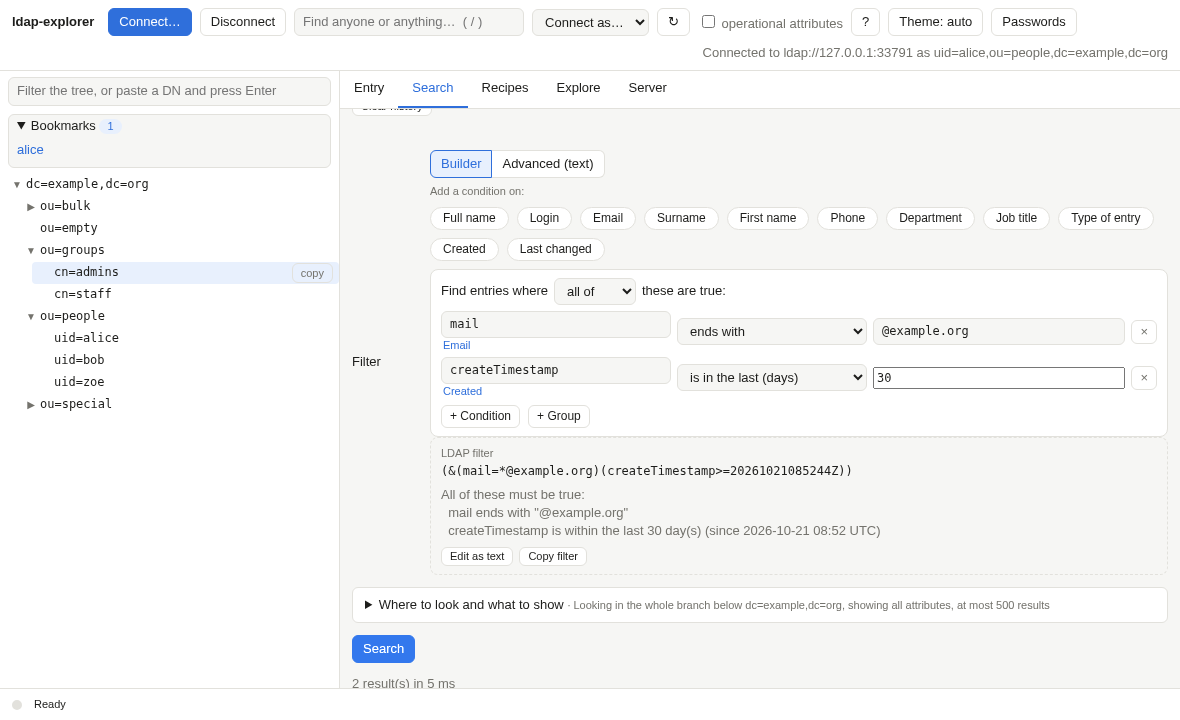
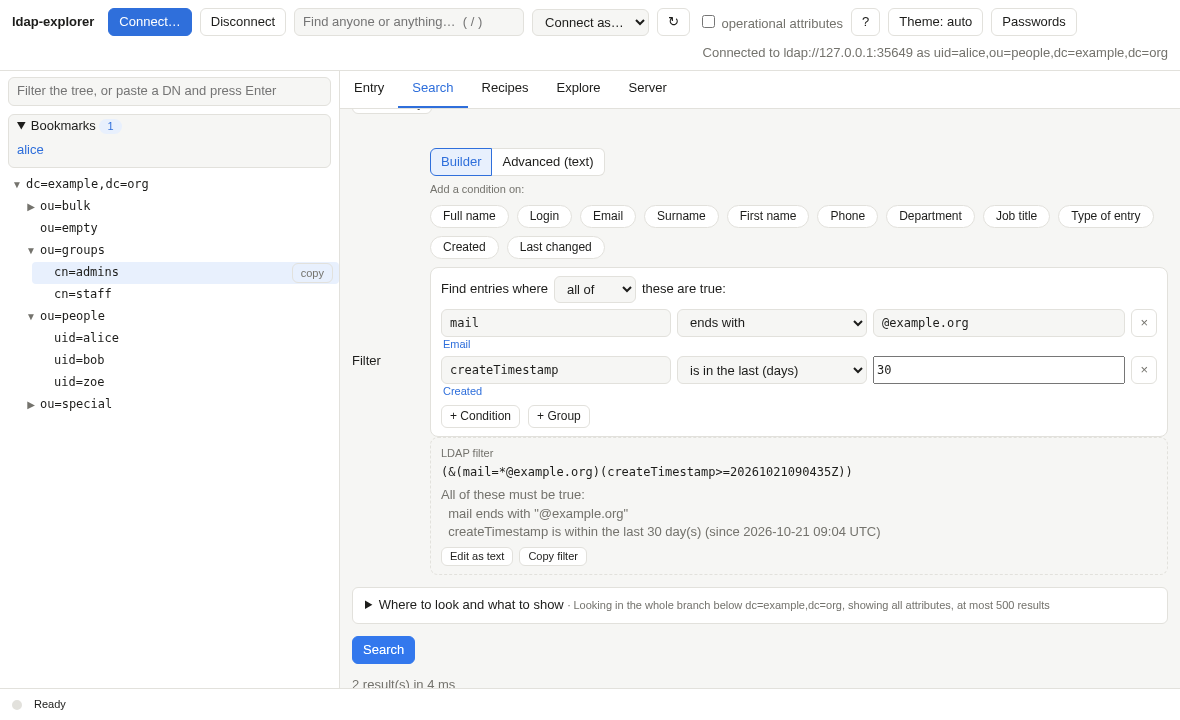
Builder: aligned fields (#2); options by field type when the schema publishes no matching rules, as in Active Directory (#3)
Refs #2, #3

diff --git a/front/js/builder.js b/front/js/builder.js
@@ -9,7 +9,7 @@ import { emit, on } from "./events.js";
 import { getSchema, attrInfo } from "./schema.js";
 import { copyText } from "./ui/copy.js";
 import { friendlyLabel, commonChips, chipDefaults } from "./labels.js";
-import { OPS, opsFor, defaultOp, valueKind, newCondition, newGroup, toQuery, fromQuery, friendlyOps, isEmptyQuery } from "./builder-model.js";
+import { RULES_UNKNOWN_NOTE, OPS, opsFor, defaultOp, valueKind, newCondition, newGroup, toQuery, fromQuery, friendlyOps, isEmptyQuery } from "./builder-model.js";
 
 let model = newGroup("all");
 let schemaIdx = null;
@@ -103,7 +103,10 @@ function renderCondition(it, group) {
   const remove = el("button", { class: "bremove", type: "button", title: "Remove this condition", textContent: "×",
     onclick: () => { group.items.splice(group.items.indexOf(it), 1); if (group.items.length === 0) group.items.push(newCondition()); render(); } });
 
-  return el("div", { class: "bcond" }, el("div", { class: "battr-wrap" }, attr, caption), op, valueControl(it, vk), remove);
+  const guess = info && info.rulesUnknown
+    ? el("span", { class: "guess", textContent: "ⓘ", title: RULES_UNKNOWN_NOTE, role: "img", "aria-label": RULES_UNKNOWN_NOTE })
+    : null;
+  return el("div", { class: "bcond" }, el("div", { class: "battr-wrap" }, attr, caption), op, guess, valueControl(it, vk), remove);
 }
 
 function valueControl(it, vk) {

diff --git a/front/js/server.js b/front/js/server.js
@@ -1,6 +1,7 @@
 // The Server tab: what this server is, and a browser for its schema (every attribute and
 // object class it accepts, how they relate, and a way to search for entries that use them).
 
+import { RULES_UNKNOWN_NOTE } from "./builder-model.js";
 import { $, el } from "./dom.js";
 import { api } from "./api.js";
 import { emit, on } from "./events.js";
@@ -139,6 +140,7 @@ function attrDetail(a) {
       el("div", {}, "equality: ", ruleText(a.equality, "not supported")),
       el("div", {}, "ordering (before/after): ", ruleText(a.ordering, "not supported")),
       el("div", {}, "contains / starts with: ", ruleText(a.substring, "not supported")))),
+    ...(a.rulesUnknown ? [el("p", { class: "muted small rules-note", textContent: RULES_UNKNOWN_NOTE })] : []),
     row("Used by", ...(used.length
       ? used.slice(0, 40).map((u) => el("span", { class: "usedby" }, link(u.class, "classes"), u.required ? el("span", { class: "badge", textContent: "required" }) : null, " "))
       : ["no object class lists it"]),

diff --git a/front/css/components.css b/front/css/components.css
@@ -78,7 +78,11 @@ table.rtable td.dn-cell { overflow-wrap: anywhere; min-width: 280px; }
 .bgroup .bgroup { margin: 6px 0 6px 14px; background: var(--bg); }
 .bhead { display: flex; align-items: center; gap: 6px; margin-bottom: 6px; }
 .bhead .bremove { margin-left: auto; }
-.bcond { display: flex; flex-wrap: wrap; gap: 6px; align-items: center; margin: 4px 0; }
+.bcond { display: flex; flex-wrap: wrap; gap: 6px; align-items: flex-start; margin: 4px 0; }
+/* every control of a condition has the same height and sits on the same line; the friendly name
+   under the field hangs below without pushing the others (they used to be centred on it) */
+.bcond input, .bcond select, .bcond .bremove { height: 28px; box-sizing: border-box; }
+.bcond .guess { height: 28px; display: inline-flex; align-items: center; color: var(--muted); cursor: help; }
 .bop { flex: 0 1 190px; min-width: 0; }
 .bremove { flex: none; }
 .bremove { padding: 0 8px; line-height: 22px; color: var(--muted); }

diff --git a/front/test/builder-model.test.js b/front/test/builder-model.test.js
@@ -154,3 +154,12 @@ test("friendlyOps shows time comparisons as after/before", () => {
 test("newCondition starts empty", () => {
   assert.deepEqual(newCondition(), { type: "condition", attr: "", op: "contains", value: "" });
 });
+
+test("a field whose rules the server does not publish still gets the usual options for its kind", () => {
+  // what the API sends for an Active Directory text field: rules unknown, so guessed from the syntax
+  const guessed = { kind: "string", canEqual: true, canOrder: false, canSubstring: true, rulesUnknown: true };
+  assert.deepEqual(opsFor(guessed), ["equals", "notEquals", "contains", "startsWith", "endsWith", "wildcard", "present", "notPresent"]);
+  assert.equal(defaultOp(guessed), "contains");
+  // and a field that does declare only equality stays that way
+  assert.deepEqual(opsFor({ kind: "string", canEqual: true, canOrder: false, canSubstring: false }), ["equals", "notEquals", "present", "notPresent"]);
+});

diff --git a/front/js/builder-model.js b/front/js/builder-model.js
@@ -45,6 +45,10 @@ export function opsFor(info) {
   return ops;
 }
 
+// Shown when the server's schema declares no matching rules for an attribute (Active Directory
+// never does): the options offered are a guess from the type of the field.
+export const RULES_UNKNOWN_NOTE = "The server does not say how this field can be compared (Active Directory never does), so the usual options for this kind of field are offered. If a search finds nothing, the server may not support that option for it.";
+
 export const defaultOp = (info) => (opsFor(info).includes("contains") ? "contains" : opsFor(info)[0]);
 
 // What kind of input the value needs: none | text | boolean | datetime | integer | days.

diff --git a/e2e/ui_test.go b/e2e/ui_test.go
@@ -2172,3 +2172,61 @@ func TestUITreeLoadsBigBranchesOnDemand(t *testing.T) {
 		t.Errorf("Load all: %d entries, want %d", n, slapdtest.BulkCount)
 	}
 }
+
+// ---------- issues #2 and #3: aligned fields, and the options when the schema has no rules ----------
+
+func TestUIBuilderFieldsAlignedAndGuessedOptions(t *testing.T) {
+	l := slapdtest.Start(t)
+	appURL := startApp(t)
+	ctx := browser(t)
+	// a window wide enough for a condition to fit on one line: the fields are compared on it
+	run(t, ctx, chromedp.EmulateViewport(1500, 900), chromedp.Navigate(appURL), chromedp.WaitVisible("#btnConn"))
+	// Make the server's schema look like Active Directory's for one field: no matching rules
+	// published (the API then says rulesUnknown and allows what the type of the field suggests).
+	run(t, ctx, eval(`(() => {
+		const real = window.fetch.bind(window);
+		window.fetch = async (url, init) => {
+			const r = await real(url, init);
+			if (String(url) !== '/api/schema') return r;
+			const d = await r.json();
+			const a = d.attributes.find((x) => x.name === 'description');
+			a.rulesUnknown = true; a.canEqual = true; a.canSubstring = true; a.canOrder = false;
+			return new Response(JSON.stringify(d), { status: 200, headers: { 'Content-Type': 'application/json' } });
+		};
+		return true; })()`))
+	connect(t, ctx, l.URL, slapdtest.AliceDN, slapdtest.AlicePW)
+	waitText(t, ctx, "#status", "Connected to")
+	run(t, ctx, chromedp.Click(`button[data-tab="search"]`), chromedp.WaitReady("#bChips"))
+	waitJS(t, ctx, "chips", `document.querySelectorAll('#bChips .chip').length > 3`)
+
+	// One row with a friendly name under the field (Email), one without (an unknown field).
+	run(t, ctx, chromedp.Click(`#bChips .chip:nth-child(3)`))
+	run(t, ctx, chromedp.Click(`#builder .badd`)) // + Condition
+	waitJS(t, ctx, "two rows", `document.querySelectorAll('#builder .bcond').length === 2`)
+	run(t, ctx, set("#builder .bcond:nth-child(2) .battr", "description"),
+		eval(`document.querySelector('#builder .bcond:nth-child(2) .battr').dispatchEvent(new Event('change'))`))
+	waitJS(t, ctx, "the guess marker", `!!document.querySelector('#builder .bcond .guess')`)
+
+	// Every control of a row starts at the same height, with and without the friendly name.
+	if !jsBool(t, ctx, `[...document.querySelectorAll('#builder .bcond')].every((row) => {
+		const tops = ['input.battr', 'select.bop', '.bval', '.bremove'].map((s) => row.querySelector(s)).filter(Boolean).map((e) => Math.round(e.getBoundingClientRect().top));
+		return tops.length >= 3 && Math.max(...tops) - Math.min(...tops) <= 1; })`) {
+		var tops []string
+		js(t, ctx, `[...document.querySelectorAll('#builder .bcond')].map((row) => ['input.battr', 'select.bop', '.bval', '.bremove'].map((s) => { const e = row.querySelector(s); return s + '=' + (e ? Math.round(e.getBoundingClientRect().top) : '-'); }).join(' '))`, &tops)
+		t.Errorf("the fields of a condition are not aligned: %v", tops)
+	}
+
+	// The field without published rules gets contains / equals, and says why.
+	var ops []string
+	js(t, ctx, `[...document.querySelectorAll('#builder .bcond:nth-child(2) select.bop option')].map(o => o.textContent)`, &ops)
+	if !slices.Contains(ops, "contains") || !slices.Contains(ops, "is") {
+		t.Errorf("options for a field whose rules are unknown: %v", ops)
+	}
+	if !strings.Contains(textOf(t, ctx, "#builder .bcond:nth-child(2) .guess"), "ⓘ") ||
+		!jsBool(t, ctx, `document.querySelector('#builder .bcond:nth-child(2) .guess').title.includes('does not say how this field can be compared')`) {
+		t.Error("the guess marker should explain itself")
+	}
+	if jsBool(t, ctx, `!!document.querySelector('#builder .bcond:nth-child(1) .guess')`) {
+		t.Error("a field with published rules should not carry the marker")
+	}
+}

diff --git a/internal/ldapschema/ldapschema_test.go b/internal/ldapschema/ldapschema_test.go
@@ -123,7 +123,7 @@ func TestSupCycleDoesNotHang(t *testing.T) {
 	if len(errs) != 0 {
 		t.Fatal(errs)
 	}
-	if s.Lookup("a").Syntax != "" || s.Lookup("c").CanEqual() {
+	if s.Lookup("a").Syntax != "" || s.Lookup("c").Equality != "" {
 		t.Error("nothing to inherit")
 	}
 }
@@ -139,5 +139,38 @@ func TestSyntaxKinds(t *testing.T) {
 	}
 	if SyntaxName("9.9.9") != "" {
 		t.Error("unknown syntax has no name")
+	}
+}
+
+// Active Directory publishes attribute types without any matching rule, but it answers equality
+// and substring searches on them: the operators then follow the syntax instead of disappearing.
+func TestAttributesWithoutMatchingRulesFollowTheirSyntax(t *testing.T) {
+	s, errs := Parse([]string{
+		"( 1.1 NAME 'postmaster' SYNTAX 1.3.6.1.4.1.1466.115.121.1.15 )",                      // text
+		"( 1.2 NAME 'counter' SYNTAX 1.3.6.1.4.1.1466.115.121.1.27 )",                         // integer
+		"( 1.3 NAME 'stamp' SYNTAX 1.3.6.1.4.1.1466.115.121.1.24 )",                           // time
+		"( 1.4 NAME 'flag' SYNTAX 1.3.6.1.4.1.1466.115.121.1.7 )",                             // boolean
+		"( 1.5 NAME 'owner2' SYNTAX 1.3.6.1.4.1.1466.115.121.1.12 )",                          // dn
+		"( 1.6 NAME 'blob' SYNTAX 1.3.6.1.4.1.1466.115.121.1.40 )",                            // binary
+		"( 1.7 NAME 'strict' EQUALITY caseIgnoreMatch SYNTAX 1.3.6.1.4.1.1466.115.121.1.15 )", // rules declared: trusted as they are
+	}, nil)
+	if len(errs) != 0 {
+		t.Fatal(errs)
+	}
+	type caps struct{ unknown, eq, ord, sub bool }
+	for name, want := range map[string]caps{
+		"postmaster": {true, true, false, true},
+		"counter":    {true, true, true, false},
+		"stamp":      {true, true, true, false},
+		"flag":       {true, true, false, false},
+		"owner2":     {true, true, false, false},
+		"blob":       {false, false, false, false},
+		"strict":     {false, true, false, false}, // declares equality only: no substring, no ordering
+	} {
+		a := s.Lookup(name)
+		got := caps{a.RulesUnknown(), a.CanEqual(), a.CanOrder(), a.CanSubstring()}
+		if got != want {
+			t.Errorf("%s: %+v, want %+v", name, got, want)
+		}
 	}
 }

diff --git a/internal/ldapschema/ldapschema.go b/internal/ldapschema/ldapschema.go
@@ -129,10 +129,23 @@ func (a *Attribute) Operational() bool {
 	return a.Usage != "" && !strings.EqualFold(a.Usage, "userApplications")
 }
 
-// CanEqual, CanOrder and CanSubstring say which filter operators make sense.
-func (a *Attribute) CanEqual() bool     { return a.Equality != "" }
-func (a *Attribute) CanOrder() bool     { return a.Ordering != "" }
-func (a *Attribute) CanSubstring() bool { return a.Substr != "" }
+// RulesUnknown reports that the schema says nothing about how this attribute can be compared:
+// no equality, ordering or substring rule at all (not even inherited), and it is not binary.
+// Active Directory publishes no matching rules, yet it answers equality and substring searches
+// on most attributes, so for these we go by the attribute's syntax instead of refusing.
+func (a *Attribute) RulesUnknown() bool {
+	return a.Equality == "" && a.Ordering == "" && a.Substr == "" && a.Kind() != "binary"
+}
+
+// CanEqual, CanOrder and CanSubstring say which filter operators make sense: what the matching
+// rules allow, or, when the schema declares none (RulesUnknown), what the syntax suggests.
+func (a *Attribute) CanEqual() bool { return a.Equality != "" || a.RulesUnknown() }
+func (a *Attribute) CanOrder() bool {
+	return a.Ordering != "" || (a.RulesUnknown() && (a.Kind() == "time" || a.Kind() == "integer"))
+}
+func (a *Attribute) CanSubstring() bool {
+	return a.Substr != "" || (a.RulesUnknown() && (a.Kind() == "string" || a.Kind() == "other"))
+}
 
 // Kind classifies the attribute value for a UI: string, integer, boolean, time,
 // dn, binary or other.

diff --git a/discovery.go b/discovery.go
@@ -116,6 +116,7 @@ type schemaAttr struct {
 	CanEqual     bool     `json:"canEqual"`
 	CanOrder     bool     `json:"canOrder"`
 	CanSubstring bool     `json:"canSubstring"`
+	RulesUnknown bool     `json:"rulesUnknown,omitempty"` // the schema declares no matching rules: the operators above are a guess from the syntax
 	SingleValue  bool     `json:"singleValue"`
 	Operational  bool     `json:"operational"`
 	NoUserMod    bool     `json:"noUserModification"`
@@ -171,7 +172,7 @@ func loadSchema(c *ldap.Conn) (*schemaResponse, error) {
 	for _, a := range s.Attributes {
 		out.Attributes = append(out.Attributes, schemaAttr{
 			Name: a.Name(), Names: nonNil(a.Names), OID: a.OID, Desc: a.Desc, Syntax: a.Syntax, SyntaxName: a.SyntaxName(),
-			Kind: a.Kind(), CanEqual: a.CanEqual(), CanOrder: a.CanOrder(), CanSubstring: a.CanSubstring(),
+			Kind: a.Kind(), CanEqual: a.CanEqual(), CanOrder: a.CanOrder(), CanSubstring: a.CanSubstring(), RulesUnknown: a.RulesUnknown(),
 			SingleValue: a.SingleValue, Operational: a.Operational(), NoUserMod: a.NoUserMod, Obsolete: a.Obsolete,
 			Sup: a.Sup, Equality: a.Equality, Ordering: a.Ordering, Substring: a.Substr, Usage: a.Usage,
 		})

diff --git a/docs/USAGE.md b/docs/USAGE.md
@@ -101,6 +101,7 @@ You never need to write filter syntax.
 - Under **Add a condition on** there is a button for each common field this server has (Full name, Login, Email, Surname, Phone, Department, Type of entry, Created...). Click one to add a ready-to-fill condition.
 - Each row is *field · operator · value*. The field box suggests the fields your server really has, with friendly names (Email for `mail`). The caption under it says what the field is.
 - **The operators depend on the field.** Text offers *is*, *is not*, *contains*, *starts with*, *ends with*, *matches pattern*, *exists* and *does not exist*. Dates offer *is after*, *is before* and *is in the last (days)* with a date picker (times are UTC). Numbers offer *is at least* / *is at most*. Yes/no fields offer a true/false choice. Binary fields only offer *exists*. If the server has no way to compare a field in some way (for example OpenLDAP's `shadowExpire` cannot be ordered) that operator is not offered, instead of giving misleading results.
+- **Servers that do not publish how fields can be compared.** Active Directory (and some other servers) describe their fields without saying which comparisons they accept, although they accept them. For those fields the builder offers the usual options for the *kind* of field (text: *is*, *contains*, *starts with*...; numbers and dates: also before / after) and puts a small **ⓘ** after the operator. Point at it for the explanation. If a search with such an option finds nothing, the server may not support it for that field. In the Server tab those fields say the same under *Can be compared for*. Servers that do publish the rules (OpenLDAP, 389DS) are followed exactly: a field that only allows *is* shows only *is*.
 - For *Type of entry* (`objectClass`) the value box suggests the kinds of entry of this server.
 - **Find entries where all of / any of / none of these are true** decides how the rows combine. **+ Group** adds a nested group, for example *all of: Email contains example.org, and any of: (Login is alice, Login is bob)*.
 - Below the rows you always see the **LDAP filter** that will be sent and a **plain-language explanation** of it, updated as you type. Special characters you type (`( ) * \`) are escaped for you, so what you type is taken literally (use *matches pattern* if you want `*` as a wildcard).
@@ -350,6 +351,7 @@ Everything you create is kept in your user configuration folder (macOS `~/Librar
 | Photos drawn in place; download and base64 copy of binary values; dates in plain words | Supported. |
 | Copying names, values, DNs, filters and table cells with one click | Supported. |
 | Searching: the quick search box, the visual builder (one-click field chips, live filter and explanation), typed filters, scopes, attribute list, limit, paging, server size limits | Supported. |
+| Builder options for fields whose comparison rules the server does not publish (Active Directory): guessed from the field's type, marked ⓘ | Supported, but only checked against OpenLDAP and synthetic schemas, not against a real Active Directory. |
 | Recipes and the branch explorer | Supported. Recipes adapt to the server's schema; tested against OpenLDAP. |
 | Saved queries and recent searches, per profile | Supported. |
 | Results as a list or a sortable table; export to CSV, JSON and LDIF | Supported. |
